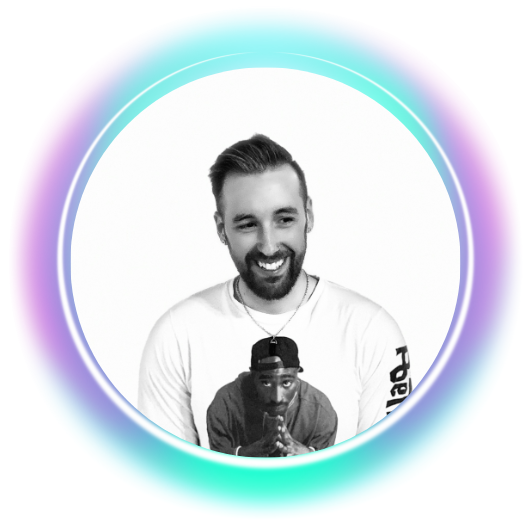
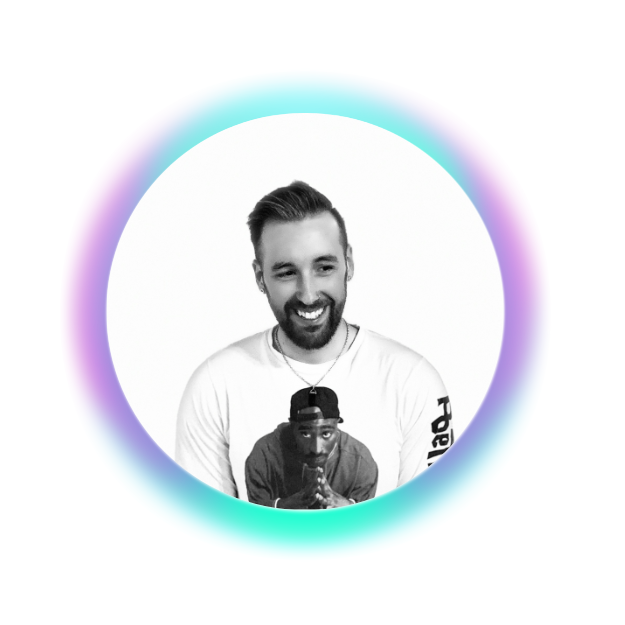
EOD revamp

diff --git a/src/components/BackgroundAnimation/BackgroundAnimation.js b/src/components/BackgroundAnimation/BackgroundAnimation.js
@@ -1,10 +1,23 @@
 import React from "react";
 import Zoom from "react-reveal/Zoom";
+import {
+  ProfilePicStyles,
+  BackgroundAnimationStyles,
+} from "./BackgroundAnimationStyles";
 
 const BackgroundAnimation = () => (
   <Zoom>
     <div>
+      <div>
+        {/* profilePic */}
+        <ProfilePicStyles>
+          <div>
+            <img id="header-profile-pic" src="../images/profile.png" />
+          </div>{" "}
+        </ProfilePicStyles>
+      </div>
       <svg
+        style={{ margin: "-130px -16px 110px 97px" }}
         className="BgAnimation__svg"
         viewBox="0 0 602 602"
         fill="none"
@@ -12,6 +25,7 @@ const BackgroundAnimation = () => (
       >
         <g opacity="0.15">
           <path
+            margin="-130px -16px 110px 97px"
             fillRule="evenodd"
             clipRule="evenodd"
             d="M201.337 87.437C193.474 79.5738 180.725 79.5738 172.862 87.437L87.437 172.862C79.5739 180.725 79.5739 193.474 87.437 201.337L400.663 514.563C408.526 522.426 421.275 522.426 429.138 514.563L514.563 429.138C522.426 421.275 522.426 408.526 514.563 400.663L201.337 87.437ZM30.4869 115.912C-8.82897 155.228 -8.82897 218.972 30.4869 258.287L343.713 571.513C383.028 610.829 446.772 610.829 486.088 571.513L571.513 486.088C610.829 446.772 610.829 383.028 571.513 343.713L258.287 30.4869C218.972 -8.82896 155.228 -8.82896 115.912 30.4869L30.4869 115.912Z"
@@ -19,6 +33,7 @@ const BackgroundAnimation = () => (
             id="path_0"
           />
           <path
+            margin="-130px -16px 110px 97px"
             d="M514.563 201.337C522.426 193.474 522.426 180.725 514.563 172.862L429.138 87.437C421.275 79.5738 408.526 79.5739 400.663 87.437L358.098 130.002L301.148 73.0516L343.713 30.4869C383.028 -8.82896 446.772 -8.82896 486.088 30.4869L571.513 115.912C610.829 155.228 610.829 218.972 571.513 258.287L357.802 471.999L300.852 415.049L514.563 201.337Z"
             stroke="url(#paint1_radial)"
             id="path_1"
@@ -87,7 +102,7 @@ const BackgroundAnimation = () => (
           rx="1.07433"
           ry="1.07306"
           transform="translate(-476.525 -363.313) rotate(90 476.525 363.313)"
-          fill="#945DD6"
+          fill="#00DBD8"
         >
           <animateMotion dur="10s" repeatCount="indefinite" rotate="auto">
             <mpath xlinkHref="#path_0" />
@@ -108,7 +123,7 @@ const BackgroundAnimation = () => (
           rx="1.07433"
           ry="1.07306"
           transform="translate(-382.164 -155.029) rotate(90 382.164 155.029)"
-          fill="#F46737"
+          fill="#13ADC7"
         >
           <animateMotion
             dur="10s"
@@ -139,7 +154,7 @@ const BackgroundAnimation = () => (
           rx="1.07306"
           ry="1.07433"
           transform="translate(-333.324 -382.691) rotate(-180 333.324 382.691)"
-          fill="#F46737"
+          fill="#B133FF"
         >
           <animateMotion
             dur="5s"
@@ -170,7 +185,7 @@ const BackgroundAnimation = () => (
           rx="1.07306"
           ry="1.07433"
           transform="translate(-165.524 -93.9596)"
-          fill="#F46737"
+          fill="#945DD6"
         >
           <animateMotion
             dur="10s"
@@ -290,8 +305,8 @@ const BackgroundAnimation = () => (
             y2="129.989"
             gradientUnits="userSpaceOnUse"
           >
-            <stop stopColor="#F46737" />
-            <stop offset="1" stopColor="#F46737" stopOpacity="0" />
+            <stop stopColor="#00DBD8" />
+            <stop offset="1" stopColor="#00DBD8" stopOpacity="0" />
           </linearGradient>
           <linearGradient
             id="paint6_linear"
@@ -301,8 +316,8 @@ const BackgroundAnimation = () => (
             y2="357.655"
             gradientUnits="userSpaceOnUse"
           >
-            <stop stopColor="#F46737" />
-            <stop offset="1" stopColor="#F46737" stopOpacity="0" />
+            <stop stopColor="#B133FF" />
+            <stop offset="1" stopColor="#B133FF" stopOpacity="0" />
           </linearGradient>
           <linearGradient
             id="paint7_linear"
@@ -312,8 +327,8 @@ const BackgroundAnimation = () => (
             y2="118.996"
             gradientUnits="userSpaceOnUse"
           >
-            <stop stopColor="#F46737" />
-            <stop offset="1" stopColor="#F46737" stopOpacity="0" />
+            <stop stopColor="#13ADC7" />
+            <stop offset="1" stopColor="#13ADC7" stopOpacity="0" />
           </linearGradient>
           <linearGradient
             id="paint8_linear"
@@ -323,8 +338,8 @@ const BackgroundAnimation = () => (
             y2="276.118"
             gradientUnits="userSpaceOnUse"
           >
-            <stop stopColor="#13ADC7" />
-            <stop offset="1" stopColor="#13ADC7" stopOpacity="0" />
+            <stop stopColor="#B133FF" />
+            <stop offset="1" stopColor="#B133FF" stopOpacity="0" />
           </linearGradient>
           <linearGradient
             id="paint9_linear"

diff --git a/src/styles/GlobalComponents/index.js b/src/styles/GlobalComponents/index.js
@@ -3,7 +3,7 @@ import styled from "styled-components";
 export const Section = styled.section`
   display: ${(props) => (props.grid ? "grid" : "flex")};
   flex-direction: ${(props) => (props.row ? "row" : "column")};
-  padding: ${(props) => (props.nopadding ? "0" : "18px 48px 0")};
+  padding: ${(props) => (props.nopadding ? "0" : "216px 30px 51px 36px")};
   margin: 0 auto;
   max-width: 1040px;
   box-sizing: content-box;
@@ -12,8 +12,16 @@ export const Section = styled.section`
   padding-bottom: 10px;
   grid-template-columns: 1fr 1fr;
 
+  /* @media ${(props) => props.theme.breakpoints.xlg} {
+    padding: 200px 0px;
+    flex-direction: column;
+  }
+  @media ${(props) => props.theme.breakpoints.lg} {
+    padding: 200px 0px;
+    flex-direction: column;
+  } */
   @media ${(props) => props.theme.breakpoints.md} {
-    padding: 24px 48px 0;
+    /* padding: 200px 0px; */
     flex-direction: column;
   }
 
@@ -34,7 +42,7 @@ export const SectionTitle = styled.h2`
   background: linear-gradient(
     121.57deg,
     #ffffff 18.77%,
-    rgba(255, 255, 255, 0.66) 60.15%
+    rgba(255, 255, 255, 1) 60.15%
   );
   -webkit-background-clip: text;
   -webkit-text-fill-color: transparent;
@@ -65,7 +73,7 @@ export const SectionText = styled.p`
   line-height: 25px;
   font-weight: 300;
   padding-bottom: 3.6rem;
-  color: rgba(255,255,255,0.75);
+  color: rgba(255, 255, 255, 0.75);
 
   @media ${(props) => props.theme.breakpoints.md} {
     max-width: 670px;
@@ -173,10 +181,10 @@ export const SecondaryBtn = styled.button`
 `;
 
 export const ButtonBack = styled.div`
-  width: ${({ alt }) => (alt ? "150px" : "262px")};
-  height: ${({ alt }) => (alt ? "52px" : "64px")};
+  width: ${({ alt }) => (alt ? "150px" : "190px")};
+  height: ${({ alt }) => (alt ? "52px" : "40px")};
   border-radius: 50px;
-  font-size: ${({ alt }) => (alt ? "20px" : "24px")};
+  font-size: ${({ alt }) => (alt ? "20px" : "18px")};
   font-weight: 600;
   display: flex;
   align-items: center;
@@ -195,15 +203,21 @@ export const ButtonBack = styled.div`
 
   @media ${(props) => props.theme.breakpoints.md} {
     width: ${({ alt }) => (alt ? "150px" : "184px")};
-    height: ${({ alt }) => (alt ? "52px" : "48px")};
+    height: ${({ alt }) => (alt ? "52px" : "40px")};
     font-size: ${({ alt }) => (alt ? "20px" : "16px")};
     margin-bottom: ${({ alt }) => (alt ? "0" : "64px")};
   }
 
   @media ${(props) => props.theme.breakpoints.sm} {
-    width: 100%;
+    width: 40%;
     height: 32px;
     font-size: 14px;
+    margin-bottom: ${({ alt }) => (alt ? "0" : "32px")};
+  }
+  @media ${(props) => props.theme.breakpoints.xsm} {
+    width: 50%;
+    height: 32px;
+    font-size: 12px;
     margin-bottom: ${({ alt }) => (alt ? "0" : "32px")};
   }
 `;
@@ -221,10 +235,10 @@ export const ButtonFront = styled.button`
   background: ${({ alt }) =>
     alt
       ? "linear-gradient(270deg, #F46737 0%, #945DD6 100%)"
-      : "linear-gradient(270deg, #13ADC7 0%, #945DD6 100%)"};
+      : "linear-gradient(270deg, #00DBD8 0%, #B133FF 100%)"};
   opacity: ${({ disabled }) => (disabled ? ".5" : "1")};
   transition: 0.4s ease;
-  font-size: ${({ alt }) => (alt ? "20px" : "24px")};
+  font-size: ${({ alt }) => (alt ? "18px" : "18px")};
   font-weight: 600;
   align-items: center;
   justify-content: center;

diff --git a/src/themes/default.js b/src/themes/default.js
@@ -2,7 +2,7 @@ export default {
   // Temp fonts
   fonts: {
     title: "Space Grotesk, sans-serif",
-    main: "Space Grotesk, sans-serif"
+    main: "Space Grotesk, sans-serif",
   },
   // Colors for layout
   colors: {
@@ -14,9 +14,10 @@ export default {
   },
   // Breakpoints for responsive design
   breakpoints: {
-    sm: 'screen and (max-width: 640px)',
-    md: 'screen and (max-width: 768px)',
-    lg: 'screen and (max-width: 1024px)',
-    xl: 'screen and (max-width: 1280px)'
+    xsm: "screen and (max-width: 372px)",
+    sm: "screen and (max-width: 670px)",
+    md: "screen and (max-width: 746px)",
+    lg: "screen and (max-width: 1024px)",
+    xl: "screen and (max-width: 1280px)",
   },
-}
+};

diff --git a/src/components/About/HeroTextStyles.js b/src/components/About/HeroTextStyles.js
@@ -27,6 +27,7 @@ export const HeroTextStyles = styled.div`
     margin: 10 auto;
     border-right: 2px solid rgba(255, 255, 255, 0.75);
     font-size: 140%;
+    color: hsl(204deg 24% 94% / 50%);
     white-space: nowrap;
 
     overflow: hidden;
@@ -38,7 +39,7 @@ export const HeroTextStyles = styled.div`
     /* flex-shrink: 1; */
     width: fit-content;
     animation: typewriter 4s steps(44) 1s 1 normal both,
-      blinkTextCursor 500ms steps(44) infinite normal;
+      blinkTextCursor 800ms steps(44) infinite normal;
   }
   @keyframes typewriter {
     from {

diff --git a/src/components/BackgroundAnimation/BackgroundAnimationStyles.js b/src/components/BackgroundAnimation/BackgroundAnimationStyles.js
@@ -1,0 +1,21 @@
+import styled from "styled-components";
+
+export const ProfilePicStyles = styled.div`
+  #header-profile-pic {
+    width: 400px;
+    max-width: 100%;
+    max-height: 400px;
+    position: absolute;
+    margin: -105px 0px 0px 110px;
+  }
+  @media ${(props) => props.theme.breakpoints.lg} {
+    width: 45%;
+    position: absolute;
+    margin: 15px 0px 0px -31px;
+  }
+  @media ${(props) => props.theme.breakpoints.md} {
+    width: 45%;
+    position: absolute;
+    margin: 15px 0px 0px px;
+  }
+`;

diff --git a/src/components/Header/HeaderStyles.js b/src/components/Header/HeaderStyles.js
@@ -31,7 +31,7 @@ export const Div1 = styled.div`
   }
 `;
 export const Div2 = styled.div`
-  grid-area: 1 / 2 / 2 / 6;
+  grid-area: 1 / 1 / 2 / 5;
   display: flex;
   justify-content: space-around;
   @media ${(props) => props.theme.breakpoints.sm} {
@@ -54,7 +54,7 @@ export const Div3 = styled.div`
 export const NavLink = styled.a`
   font-size: 2rem;
   line-height: 32px;
-  color: rgba(255, 255, 255, 0.75);
+  color: #fbfbfb;
   transition: 0.4s ease;
   &:hover {
     color: #fff;

diff --git a/src/pages/index.js b/src/pages/index.js
@@ -1,5 +1,5 @@
 import Acomplishments from "../components/Acomplishments/Acomplishments";
-import BgAnimation from "../components/BackgrooundAnimation/BackgroundAnimation";
+import BgAnimation from "../components/BackgroundAnimation/BackgroundAnimation";
 import Experience from "../components/Experience/Experience";
 import Hero from "../components/Hero/Hero";
 import Projects from "../components/Projects/Projects";

diff --git a/src/components/Projects/ProjectsStyles.js b/src/components/Projects/ProjectsStyles.js
@@ -1,6 +1,7 @@
 import styled from "styled-components";
 
 export const Img = styled.img`
+  display: none;
   width: 100%;
   height: 100%;
   border-top-left-radius: 10px;
@@ -28,6 +29,7 @@ export const BlogCard = styled.div`
   box-shadow: 3px 3px 20px rgba(80, 78, 78, 0.5);
   text-align: center;
   width: 400px;
+  height: 400px;
   @media ${(props) => props.theme.breakpoints.sm} {
     width: 100%;
   }

diff --git a/src/components/TimeLine/TimeLineStyles.js b/src/components/TimeLine/TimeLineStyles.js
@@ -91,11 +91,11 @@ export const BoxText = styled.div`
     height: calc(100% + 4px * 2);
     background-image: linear-gradient(
       90deg,
-      #4edcb7,
-      #83ea9e,
+      #13adc7,
+      #00dbd8,
+      #945dd6,
       #32b9cd,
-      #32b9cd,
-      #4edcb7
+      #b133ff
     );
     background-size: 300% 200%;
     -webkit-animation: spining 3s linear infinite alternate;

diff --git a/src/styles/globals.js b/src/styles/globals.js
@@ -16,7 +16,7 @@ const GlobalStyles = createGlobalStyle`
   }
   body {
     font-family: ${(props) => props.theme.fonts.main};
-    font-size: 1.6rem;
+    font-size: 1.8rem;
     background: ${(props) => props.theme.colors.background1};
     color: ${(props) => props.theme.colors.primary1};
     cursor: default;

diff --git a/src/components/Header/Header.js b/src/components/Header/Header.js
@@ -25,7 +25,10 @@ const Header = () => (
             marginBottom: "20px",
           }}
         >
-          <DiCssdeck size="3rem" /> <Span>Portfolio</Span>
+          {/* <DiCssdeck size="3rem" />  */}
+          <Span>
+          
+          </Span>
         </a>
       </Link>
     </Div1>

diff --git a/src/components/Hero/Hero.js b/src/components/Hero/Hero.js
@@ -30,7 +30,7 @@ const Hero = (props) => (
             window.open("https://benjamintimsresume.netlify.app/", "_blank")
           }
         >
-          View Resume{" "}
+          Download Resume{" "}
         </Button>
       </Zoom>
     </LeftSection>
